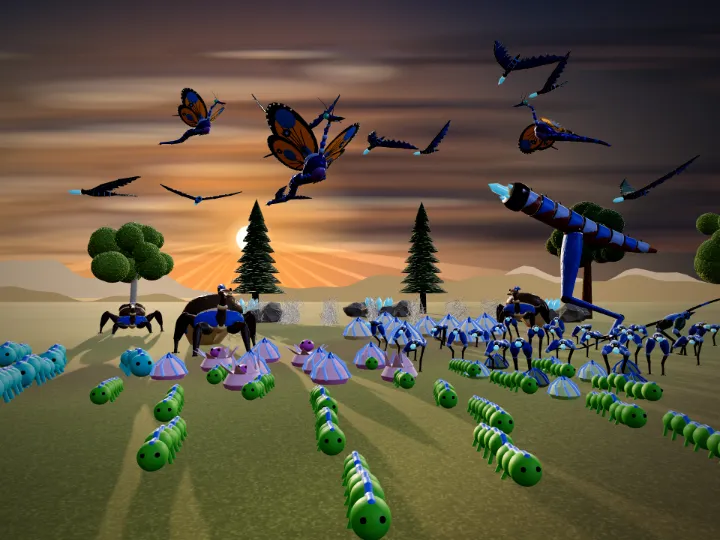
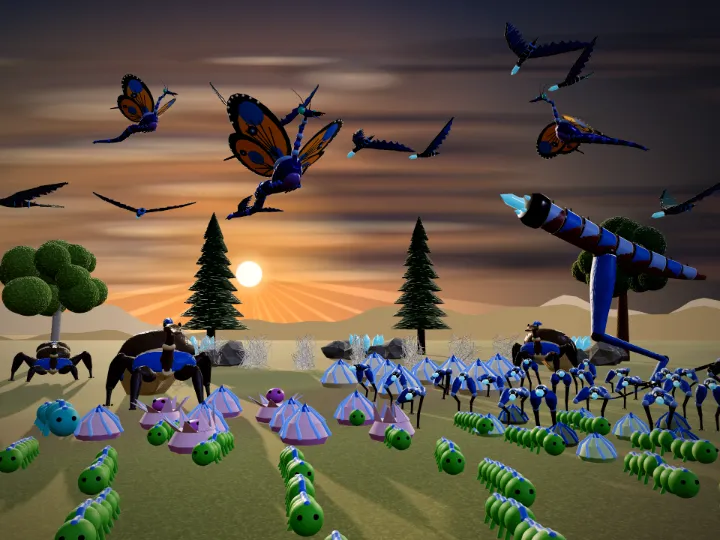
Loading screen shows the sunset collision picture; pictures 4, 10 and 15 saved full-screen in src/assets (art-<n>.jpg, GAME=10 node scripts/bands.mjs); Meadowfolk and Wildwelds cards framed tighter, the empty grass gone
Claude-Session: https://claude.ai/code/session_01AVuzLnEXmu5zQA3roLS1dH

diff --git a/src/factions/meadowfolk/band.ts b/src/factions/meadowfolk/band.ts
@@ -81,7 +81,7 @@ export const bands: BandCandidate[] = [
     sky: ['#2e4266', '#f4cf96'], sun: { azimuth: 120, elevation: 10, disc: true, rays: true }, clouds: 'many',
     groundColors: ['#4f5f2c', '#62723a', '#74823e', '#6b6a3a', '#7a6640'],
     ridges: [{ distance: 75, height: 5, color: '#55604a', jag: 0.3 }, { distance: 115, height: 9, color: '#7a8088', jag: 0.5, peaks: true }],
-    camera: { from: [-2, 1.15, 13], to: [0, 2.6, -4], fov: 56 },
+    camera: { from: [-2, 1.15, 13], to: [-0.4, 4.1, -4], fov: 42 },
     hills: [{ at: [0, -24], r: 12, h: 3.5 }, { at: [-16, -10], r: 9, h: 1.6 }, { at: [16, -12], r: 10, h: 2 }, { at: [0, 16], r: 6, h: 0.6 }],
     props: [
       ...Array.from({ length: 48 }, (_, i) => ({ model: (b: ModelBuilder) => bush(b, 1), at: [-18 + (i % 12) * 1.4, -4 - Math.floor(i / 12) * 1.8] as [number, number], scale: 0.9 })),
@@ -92,8 +92,8 @@ export const bands: BandCandidate[] = [
     cast: [
       { id: 'great-hall', at: [0, -26] }, { id: 'watchtower', at: [-8, -21], face: 20 }, { id: 'watchtower', at: [8.5, -22], face: -20 },
       { id: 'town-center', at: [-16, -14], face: 30 }, { id: 'barracks', at: [16, -16], face: -30 }, { id: 'lynx-den', at: [-24, -18], face: 30 }, { id: 'forge', at: [23, -24], face: -30 },
-      { id: 'lynx', at: [1.6, 6.6], face: -80, anim: 'charge', phase: 0.35 },
-      { id: 'lynx', at: [-2.6, 4.4], face: -76, anim: 'charge', phase: 0.7 },
+      { id: 'lynx', at: [1.0, 6.2], face: -80, anim: 'charge', phase: 0.35 },
+      { id: 'lynx', at: [-2.6, 4.2], face: -76, anim: 'charge', phase: 0.7 },
       { id: 'hurlhorn', at: [-5, -3], face: -10, anim: 'attack', phase: 0.55 },
       { id: 'hurlhorn', at: [5.5, -5], face: 15, anim: 'attack', phase: 0.3 },
       ...crowd('pikeman', 40, -1, -4, 5, 0, 'walk'),

diff --git a/src/dev/gameBand.ts b/src/dev/gameBand.ts
@@ -825,7 +825,8 @@ export function runGameBand(params: URLSearchParams): void {
   const sides = gameSides();
   const wide = !!params.get('wide');
   const w = band.wide, staging = !wide ? band.staging : w && 'cast' in w ? w : { ...band.staging, camera: w ?? band.staging.camera };
-  const c = renderBand(sides, staging, wide ? 2480 : 960, 720);
+  // (&w=&h=: another size, e.g. 1920×1080 for a full-screen picture; the camera keeps its height, so a wider picture shows more to the sides)
+  const c = renderBand(sides, staging, +(params.get('w') ?? (wide ? 2480 : 960)), +(params.get('h') ?? 720));
   c.style.cssText = 'position:fixed;left:0;top:0;z-index:20';
   document.body.appendChild(c);
   document.body.dataset.label = `new${band.top ? ` ★${band.top}` : ''}: ${band.name}`; // (for the review sheet)

diff --git a/src/factions/wildwelds/band.ts b/src/factions/wildwelds/band.ts
@@ -210,7 +210,7 @@ export const bands: BandCandidate[] = [
     sky: ['#2e3346', '#f1c48a'], sun: { azimuth: -160, elevation: 7, disc: true, rays: true }, clouds: 'many', storm: 1,
     groundColors: ['#4a522c', '#5a6432', '#686e3a', '#5a5636', '#6a5a3c'],
     ridges: [{ distance: 70, height: 4.5, color: '#4a4a44', jag: 0.7 }, { distance: 110, height: 10, color: '#6a6870', jag: 0.8, peaks: true }],
-    camera: { from: [1, 1.6, 11], to: [0, 2.2, -3], fov: 58 },
+    camera: { from: [1, 1.6, 11], to: [0.4, 2.9, -3], fov: 48 },
     props: [...trees([[-14, -16], [-8, -20], [12, -18], [17, -12], [3, -24]], 1.3), ...ground([[-6, 6], [6, 6.5], [-9, 2], [9, 1]])],
     cast: [
       { id: 'mother3', at: [-3.6, -1.5], face: 30, anim: 'lay', phase: 0.55 },

diff --git a/src/style.css b/src/style.css
@@ -52,7 +52,7 @@ kbd {
   background: radial-gradient(ellipse at center, #2a2a1c 0%, #0b0a08 70%);
   z-index: 10;
 }
-#loading { background: linear-gradient(rgba(11, 10, 8, 0.72), rgba(11, 10, 8, 0.9)), url('./assets/menu-bg.jpg') center / cover; }
+#loading { background: linear-gradient(rgba(11, 10, 8, 0.15), rgba(11, 10, 8, 0.5)), url('./assets/art-10.jpg') center / cover; }
 /* the front page: a battle scene across the top, then what to play */
 #menu { flex-direction: column; justify-content: flex-start; overflow-y: auto; background: #0b0a08; }
 .menu-hero {
